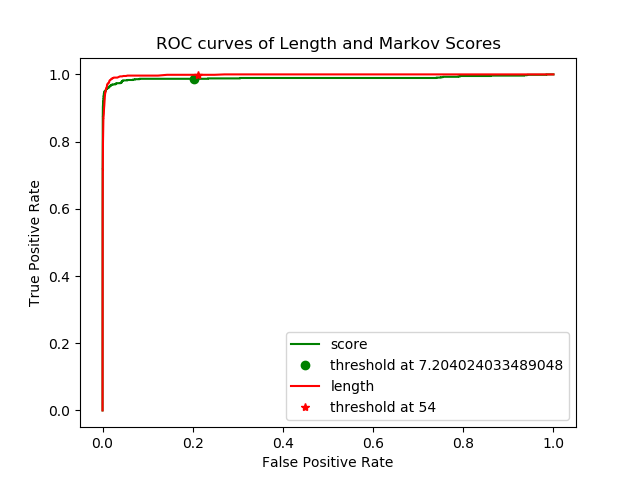
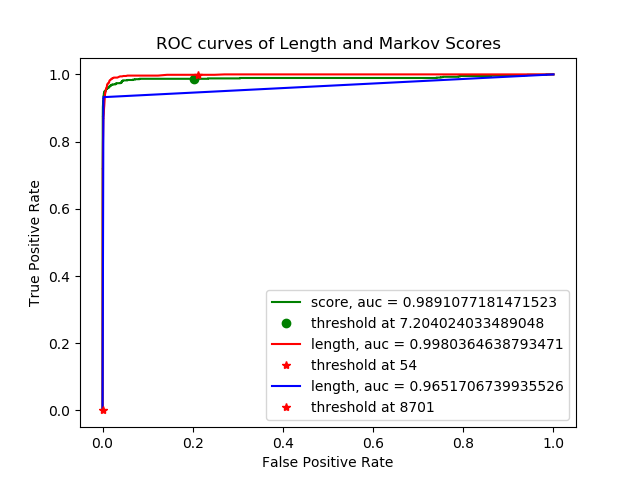
added flashbulb and plots

diff --git a/src/train_model.py b/src/train_model.py
@@ -1,5 +1,6 @@
 import argparse
 import numpy as np
+from statistics import median
 from sklearn.metrics import roc_curve
 from sklearn.metrics import roc_auc_score
 from sklearn.metrics import accuracy_score
@@ -70,25 +71,54 @@ def idx_nearest_match(df_results, col, thresholds):
     accuracies = []
 
     for t in thresholds:
-        acc= accuracy_score(df_results[col] > t, df_results["matches"])
+        acc= accuracy_score(col > t, df_results["matches"])
         accuracies.append(acc)
     
     return find_nearest(accuracies, 0.8)
 
+# report things!
+print(mm.orfs)
+print("\nreading frame 3\n", "total number: ", len(mm.orfs.idxs0), "\n", \
+    " first: ", mm.orfs.idxs0[0], " (length of {})".format(len(mm.orfs.orf0[0])), "\n", \
+    " last: ", mm.orfs.idxs0[-1], " (length of {})".format(len(mm.orfs.orf0[-1])), "\n")
+print("reading frame 1\n", "total number: ", len(mm.orfs.idxs1), "\n", \
+    " first: ", mm.orfs.idxs1[0], " (length of {})".format(len(mm.orfs.orf1[0])), "\n", \
+    " last: ", mm.orfs.idxs1[-1], " (length of {})".format(len(mm.orfs.orf1[-1])), "\n")
+print("reading frame 2\n", "total number: ", len(mm.orfs.idxs2), "\n", \
+    " first: ", mm.orfs.idxs2[0], " (length of {})".format(len(mm.orfs.orf2[0])), "\n", \
+    " last: ", mm.orfs.idxs2[-1], " (length of {})".format(len(mm.orfs.orf2[-1])), "\n")
+print("total number of CDS strands: ", len(goldens[0]))
+
+long = df_results[df_results["length"] > longl]
+short = df_results[df_results["length"] < shortl]
+
+print("shortest orfs: ")
+print(short.sort_values("start")[:5])
+print("longest orfs: ")
+print(long.sort_values("start")[:5])
+
 
 # plot things!
-def roc_len_score(fig, df_results):
+def roc_len_score(fig, df_results, combined_results):
     fpr, tpr, thresholds = roc_curve(df_results["matches"], df_results["score"])
+    auc = roc_auc_score(df_results["matches"], df_results["score"])
     fpr_len, tpr_len, thresholds_len = roc_curve(df_results["matches"], df_results["length"])
+    auc_len = roc_auc_score(df_results["matches"], df_results["length"])
+    fpr_combined, tpr_combined, thresholds_combined = roc_curve(df_results["matches"], combined_results)
+    auc_combined = roc_auc_score(df_results["matches"], combined_results)
 
-    idx_score = idx_nearest_match(df_results, "score", thresholds)
-    idx_len = idx_nearest_match(df_results, "length", thresholds_len)
+
+    idx_score = idx_nearest_match(df_results, df_results["score"], thresholds)
+    idx_len = idx_nearest_match(df_results, df_results["length"], thresholds_len)
+    idx_combined = idx_nearest_match(df_results, combined_results, thresholds_combined)
 
 
-    plt.plot(fpr, tpr, "g-", label="score")
+    plt.plot(fpr, tpr, "g-", label="score, auc = {}".format(auc))
     plt.plot(fpr[idx_score], tpr[idx_score], "go", label="threshold at {}".format(thresholds[idx_score]))
-    plt.plot(fpr_len, tpr_len, "r-", label="length")
+    plt.plot(fpr_len, tpr_len, "r-", label="length, auc = {}".format(auc_len))
     plt.plot(fpr_len[idx_len], tpr_len[idx_len], "r*", label="threshold at {}".format(thresholds_len[idx_len]))
+    plt.plot(fpr_combined, tpr_combined, "b-", label="length, auc = {}".format(auc_combined))
+    plt.plot(fpr_combined[idx_combined], tpr_combined[idx_combined], "r*", label="threshold at {}".format(thresholds_len[idx_combined]))
     plt.xlabel("False Positive Rate")
     plt.ylabel("True Positive Rate")
     plt.title("ROC curves of Length and Markov Scores")
@@ -105,10 +135,61 @@ def scatter_len_score(fig, df_results):
     plt.ylabel("Markov Scores")
     plt.title("Length vs Markov scores, blue = gene, red = no gene")
 
+
+def flashbulb(fig, df_results,r):
+    long = df_results[df_results["length"] > longl]
+    short = df_results[df_results["length"] < shortl]
+    (Sx,Sy) = median(short["length"]),median(short["score"])
+    (Lx,Ly)=median(long["length"]), median(long["score"])
+
+    #calculate a line through the medians:
+    m=(Ly-Sy)/(Lx-Sx)
+    b=Ly-m*Lx
+
+    #calculate perpendicular lines:
+    xcross = Sx + r*(Lx - Sx)
+    ycross = m*xcross+b
+    y_intercept = ycross - (1/m)*xcross
+
+    # plot
+    scatter_len_score(fig, long)
+    scatter_len_score(fig, short)
+    plt.plot(median(short["length"]),median(short["score"]),"r*", 30)
+    plt.plot(median(long["length"]), median(long["score"]),"b*", 30)
+
+    ax = plt.axes()
+    x = np.linspace(-100,8000,1000)
+    ax.plot(x, m*x+b)
+    ax.plot(x, (-1/m)*x-y_intercept)
+
+    plt.xlim(-100, 8000)
+    plt.ylim(-100, 2500)
+    return m, y_intercept
+
+
 fig = plt.figure()
-roc_len_score(fig, df_results)
+m, y_intercept = flashbulb(fig, df_results, 0.2)
+plt.savefig("output/decision_bdy.png")
+plt.close()
+
+
+def combine_mm_len(df_results, m, y_intercept):
+    y_pred = []
+
+    for row in df_results.iterrows():
+        x = row[1]["length"]
+
+        temp = (-1/m)*x-y_intercept
+        if row[1]["score"] > temp:
+            y_pred.append(True)
+        else:
+            y_pred.append(False)
+    return y_pred
+
+combined_results = combine_mm_len(df_results, m, y_intercept)
+fig = plt.figure()
+roc_len_score(fig, df_results, combined_results)
 plt.savefig("output/roc_curve_k{}_pseudo{}_longl{}_shortl{}.png".format(k, pseudo, longl, shortl))
 zoomin(fig, -0.02, 0.15, 0.75, 1.03)
 plt.savefig("output/roc_curve_k{}_pseudo{}_longl{}_shortl{}_zoomed.png".format(k, pseudo, longl, shortl))
-
-
+plt.close()
